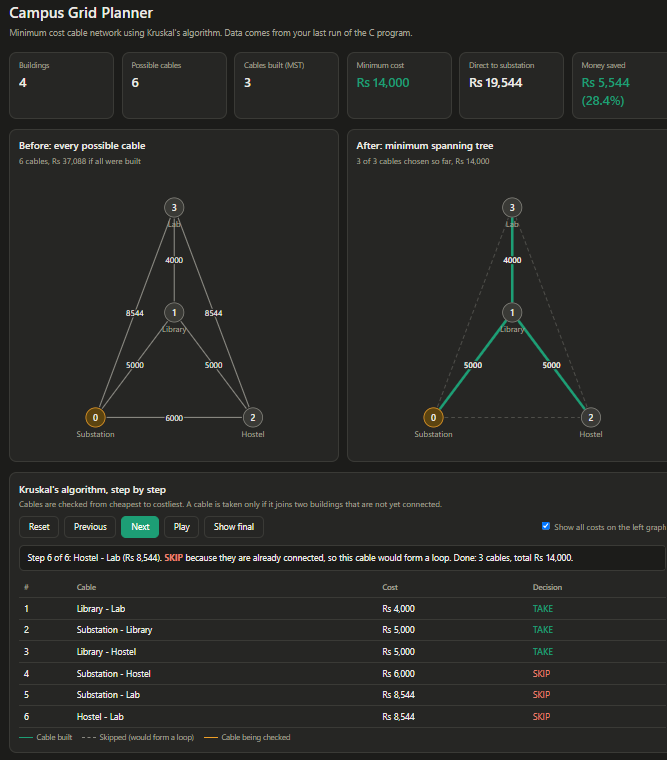
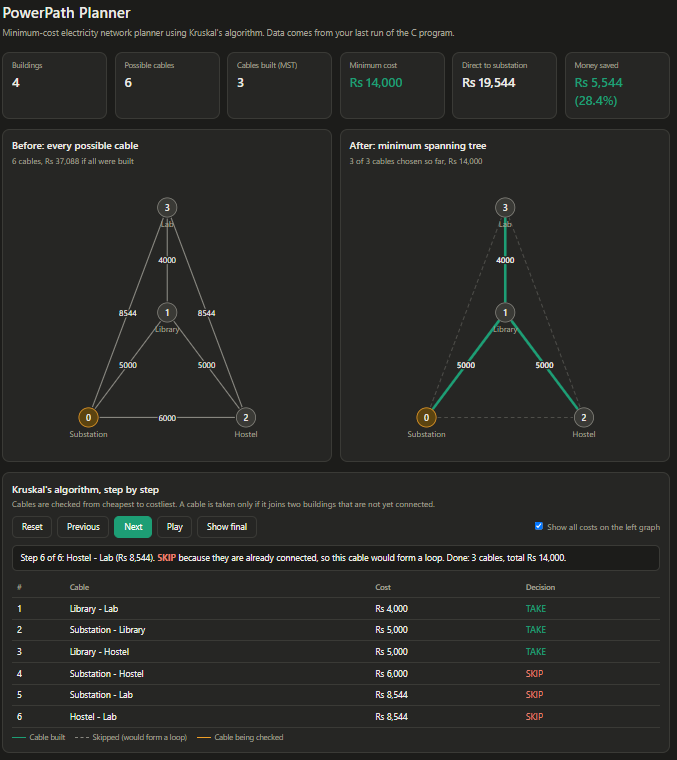
Make project description general

diff --git a/dashboard.html b/dashboard.html
@@ -3,7 +3,7 @@
 <head>
 <meta charset="UTF-8">
 <meta name="viewport" content="width=device-width, initial-scale=1">
-<title>Campus Grid Planner - Dashboard</title>
+<title>PowerPath Planner - Dashboard</title>
 <style>
   :root {
     --bg: #f7f6f2; --card: #ffffff; --text: #1f1f1d; --muted: #6b6a65;
@@ -66,8 +66,8 @@
 </head>
 <body>
 <div class="wrap">
-  <h1>Campus Grid Planner</h1>
-  <p class="sub">Minimum cost cable network using Kruskal's algorithm. Data comes from your last run of the C program.</p>
+  <h1>PowerPath Planner</h1>
+  <p class="sub">Minimum-cost electricity network planner using Kruskal's algorithm. Data comes from your last run of the C program.</p>
   <div id="app"></div>
 </div>
 

diff --git a/grid_planner_dashboard.c b/grid_planner_dashboard.c
@@ -39,8 +39,8 @@ int main() {
     float rate, total = 0, naive = 0;
 
     // ---------- 1. INPUT ----------
-    printf("=== Campus Grid Planner ===\n");
-    printf("Number of buildings (building 0 = substation): ");
+    printf("=== PowerPath Planner ===\n");
+    printf("Number of buildings (building 0 = substation / power source): ");
     scanf("%d", &n);
 
     for (int i = 0; i < n; i++) {

diff --git a/README.md b/README.md
@@ -1,7 +1,8 @@
-# Campus Grid Planner
-![Dashboard](dashboard.png)
+# PowerPath Planner
 
-A Data Structures and Algorithms project that plans the **lowest-cost electricity cable network** for the buildings of a campus. The campus is modelled as a weighted graph and the cheapest network is found with **Kruskal's Minimum Spanning Tree algorithm**, written in C. A browser dashboard shows the result visually.
+**A minimum-cost electricity network planner using Kruskal's algorithm.**
+
+PowerPath Planner plans the **lowest-cost cable network** for any group of buildings: a college campus, a village, a housing colony, an industrial park or a hospital complex. The site is modelled as a weighted graph and the cheapest network is found with **Kruskal's Minimum Spanning Tree algorithm**, written in C. A browser dashboard shows the result visually.
 
 **Task 32: Electricity / Grid Connection Planner**
 
@@ -9,7 +10,7 @@ A Data Structures and Algorithms project that plans the **lowest-cost electricit
 
 ## The problem
 
-A campus has a substation and several buildings. A cable can be laid between any two buildings, but a longer cable costs more. Which cables should be built so that **every building is powered** and the **total cost is as low as possible**?
+Any site has a power source (a substation or transformer) and several buildings. A cable can be laid between any two buildings, but a longer cable costs more. Which cables should be built so that **every building is powered** and the **total cost is as low as possible**?
 
 ## How it is modelled
 
@@ -112,14 +113,14 @@ Let V be the number of buildings and E the number of possible cables (E = V(V-1)
 | Sorting the cables (bubble sort, as implemented) | O(E^2) |
 | Kruskal's loop with Union-Find | almost O(E) |
 
-With a faster sort such as `qsort`, the total becomes the standard **O(E log E)** for Kruskal's. Bubble sort is used here to keep the code simple, which is fine for a campus-sized input.
+With a faster sort such as `qsort`, the total becomes the standard **O(E log E)** for Kruskal's. Bubble sort is used here to keep the code simple, which is fine for small and medium-sized inputs.
 
 **Space:** O(E + V) for the cable list and the `parent[]` array.
 
 ## Limitations and future work
 
 - Distances are straight lines. Real cable routes depend on roads, terrain and existing trenches.
-- An MST has **no backup**: if one cable fails, part of the campus loses power. A future version can find the cheapest backup cable for every planned cable.
+- An MST has **no backup**: if one cable fails, part of the network loses power. A future version can find the cheapest backup cable for every planned cable.
 - Cables that are already built could cost zero and be merged first.
 - Prim's algorithm could be added to compare running times on larger inputs.
 - Steiner points (extra junctions) can reduce the cost further.
@@ -130,4 +131,4 @@ Graphs, weighted edges, spanning trees, minimum spanning trees, greedy algorithm
 
 ## Author
 
-Vrishab: Data Structures and Algorithms project
+Vrishab: Data Structures and Algorithms project (PowerPath Planner)
